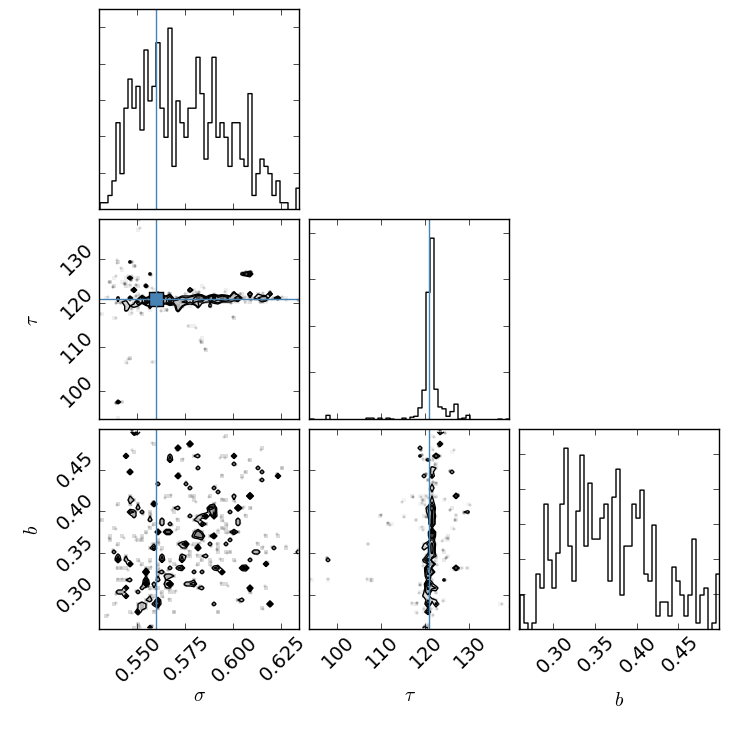
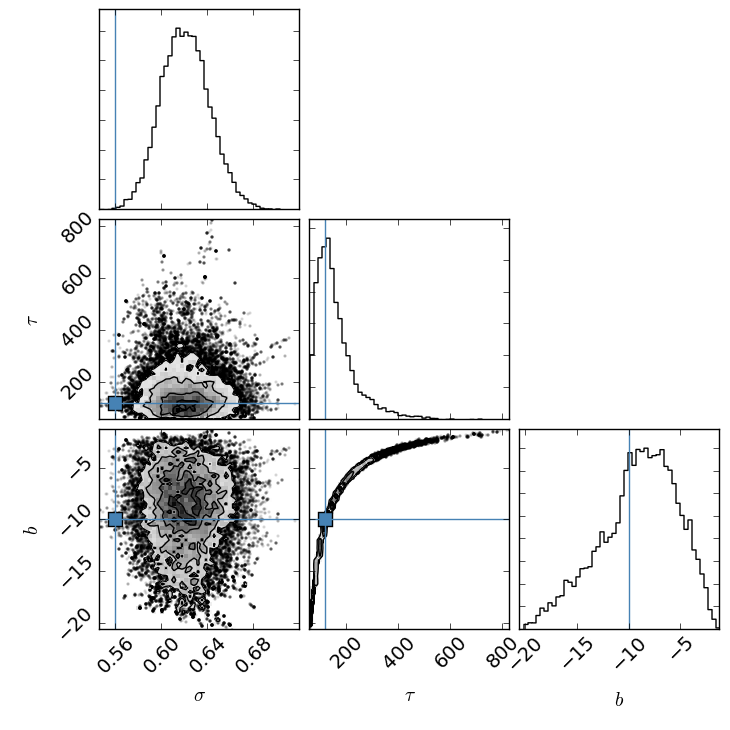
fixed bug in emcee, it is now giving more reasonable results

diff --git a/python/emcee_light_curves.py b/python/emcee_light_curves.py
@@ -32,7 +32,15 @@ def lnprior(theta):
   if 1.e-10<sigma<1.e10 and 1.e-10<tau<1.e10 and -1000.<b<1000.:
         return 0.0
   return -np.inf
-    
+
+#test lnprior
+'''
+for k in arange(-1.e4,1.e4, 1.e2):
+  theta = [0.56, 121, k]
+  print k,lnprior(theta)
+exit()
+'''
+
 def lnprob(theta, t, lc, err):
     lp = lnprior(theta)
     if not np.isfinite(lp):
@@ -40,8 +48,9 @@ def lnprob(theta, t, lc, err):
     return lp + kelly_ll(theta, t, lc, err)
 #M_BH = 10**(7.78/8.) #in 10^8 M_sun
 #R = 1./(1.1*M_BH)*121 # in 100 R_suns
+
 z = 0.658 # redshift
-b=-1.0
+b=0.0
 tau=121.
 sigma=0.56 #for RX J1131 at 1000 A
 
@@ -64,39 +73,60 @@ xlabel('time, days')
 ylabel('Rel. Mag.')
 
 '''
-# NUMERICALLY OPTIMIZE THE SOLUTION
-nll = lambda *args: -kelly_delay_ll_3(*args)
-#result = op.minimize(nll, [m_true, b_true, np.log(f_true)], args=(x, y, yerr))
-result = op.fmin(nll, [delay, log10(sigma), log10(tau), b], args=(t, lc1, err1, lc2, err2))
-#m_ml, b_ml, lnf_ml = result["x"]
-delay_ml, log10_sigma_ml, log10_tau_ml, b_ml = result
-if(result[2]<0.): result[2]*=-1.
-
-print 'delay=%1.2e\tdelay_ml=%1.2e'%(delay,delay_ml)
-print 'log10_sigma=%1.2e\tlog10_sigma_ml=%1.2e'%(log10(sigma),log10_sigma_ml)
-print 'log10_tau=%1.2e\tlog10_tau_ml=%1.2e'%(log10(tau),log10_tau_ml)
-print 'b=%1.2e\tb_ml=%1.2e'%(b,b_ml)
+#test lnprob
+#b_array=concatenate([-10**arange(5.,-5.,-1.),10**arange(-5.,5.,1.)])
+b_array=arange(-100.,100.)
+figure()
+for b_val in b_array:
+  theta = [sigma, tau, b_val]
+  print b_val,lnprob(theta, t, X_data, error*ones(len(X_data)))
+  plot([b_val],[lnprob(theta, t, X_data, error*ones(len(X_data)))] ,'k.')
+show()
+exit()
 '''
+
+# NUMERICALLY OPTIMIZE THE SOLUTION
+print 'NUMERICAL OPTIMIZATION OF THE SOLUTION'
+nll = lambda *args: -kelly_ll(*args)
+#result = op.minimize(nll, [m_true, b_true, np.log(f_true)], args=(x, y, yerr))
+result = op.fmin(nll, [sigma, tau, b], args=(t, X_data, error*ones(len(X_data))))
+#m_ml, b_ml, lnf_ml = result["x"]
+sigma_ml, tau_ml, b_ml = result
+#if(result[2]<0.): result[2]*=-1.
+
+print 'sigma=%1.2e\tsigma_ml=%1.2e'%((sigma),sigma_ml)
+print 'tau=%1.2e\ttau_ml=%1.2e'%((tau),tau_ml)
+print 'b=%1.2e\tb_ml=%1.2e'%(b,b_ml)
+#exit()
+
 #RUN EMCEE
-#ndim, nwalkers = 3, 100
-ndim, nwalkers = 3, 10
+ndim, nwalkers = 3, 100
+#ndim, nwalkers = 3, 10
 print 'pos'
 true_vals=[sigma, tau, b]
-pos = [true_vals + 1e-4*np.random.randn(ndim) for i in range(nwalkers)]
+#print 1e-4*np.random.randn(ndim)
+pos = [true_vals + 1e-3*np.random.randn(ndim) for i in range(nwalkers)]
+#print pos
 print 'sampler'
-sampler = emcee.EnsembleSampler(nwalkers, ndim, lnprob, args=(t, X, error*ones(len(X))))
+sampler = emcee.EnsembleSampler(nwalkers, ndim, lnprob, args=(t, X_data, error*ones(len(X))))
 print 'burn-in sampler.run_mcmc'
 #sampler.run_mcmc(pos, 500)
 sampler.run_mcmc(pos, 100)
 sampler.reset()
 print 'sampler.run_mcmc'
-#sampler.run_mcmc(pos, 1000)
-sampler.run_mcmc(pos, 100)
+sampler.run_mcmc(pos, 1000)
+#sampler.run_mcmc(pos, 100)
+#for i in range(ndim):
+    #figure()
+    #hist(sampler.flatchain[:,i], 100, color="k", histtype="step")
+    #title("Dimension {0:d}".format(i))
+#show()
 print 'sampler.chain'
 samples = sampler.chain[:, 50:, :].reshape((-1, ndim))
 print("Mean acceptance fraction: {0:.3f}".format(np.mean(sampler.acceptance_fraction)))
-
-samples[:, 2] = np.exp(samples[:, 2])
+#exit()
+#PROBLEM MUST BE HERE!
+#samples[:, 2] = np.exp(samples[:, 2])
 mc_sigma, mc_tau, mc_b = map(lambda v: (v[1], v[2]-v[1], v[1]-v[0]), zip(*np.percentile(samples, [16, 50, 84],axis=0)))
 
 print 'Errors based on 16th, 50th, and 84th percentile'
